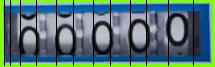
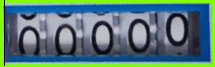
10.9

diff --git a/test.py b/test.py
@@ -7,12 +7,13 @@ import matplotlib.pyplot as plt
 import cv2
 import numpy as np
 
-#define outer and iner funtion to separate the numbers
-def separate_inside(gray,img,fact_submax,fact_length,NumOfLines,row,col):
+#define outer and inner funtion to separate the numbers
+def separate_inside(gray,img,fact_submax,fact_length,row,col):
     submax = 0
     end_flag=0
     NOL=0
-    buffer=[0]*NumOfLines
+    NumOfLines=0
+    buffer=[0]
     dif=0
     last_line_col=0
     for i in range(col - 1):
@@ -42,14 +43,14 @@ def separate_inside(gray,img,fact_submax,fact_length,NumOfLines,row,col):
             if NOL==NumOfLines:
                 end_flag=1
                 break
-    return i,NOL,img
+    return i,NOL,NumOfLines,img,
 
-def separate_outside(img_to_gray,img_be_draw,fact_submax,fact_length,NumOfLines,precise):
+def separate_outside(img_to_gray,img_be_draw,fact_submax,fact_length,precise):
     gray = cv2.cvtColor(img_to_gray, cv2.COLOR_RGB2GRAY)
     gray = cv2.adaptiveThreshold(gray,255,cv2.ADAPTIVE_THRESH_MEAN_C,cv2.THRESH_BINARY,11,2)
     row, col = gray.shape
     for n in range(100):
-        i,NOL,ret_img=separate_inside(gray.copy(),img_be_draw,fact_submax,fact_length,NumOfLines,row,col)
+        i,NOL,NumOfLines,ret_img=separate_inside(gray.copy(),img_be_draw,fact_submax,fact_length,row,col)
         if i<(row-1) and NOL==NumOfLines:
             fact_submax-precise
             continue
@@ -60,6 +61,7 @@ def separate_outside(img_to_gray,img_be_draw,fact_submax,fact_length,NumOfLines,
             break
     cv2.imwrite("ret_img.png",ret_img )
     return
+
 
 
 
@@ -77,7 +79,6 @@ edge=cv2.Canny(img,10,200)
 ratio=img.shape[0]/300.0
 row,col,demension=img.shape
 number=[]*5
-number_char=5
 precise=0.01
 fact_submax=0.6
 fact_length=0.8
@@ -146,7 +147,7 @@ cv2.imwrite("warp.png",warp)
 
 '''2.Must pass the image that in colorful format'''
 
-separate_outside(warp,warp,fact_submax,fact_length,number_char,precise)
+separate_outside(warp,warp,fact_submax,fact_length,precise)
 
 cv2.waitKey(0)
 
